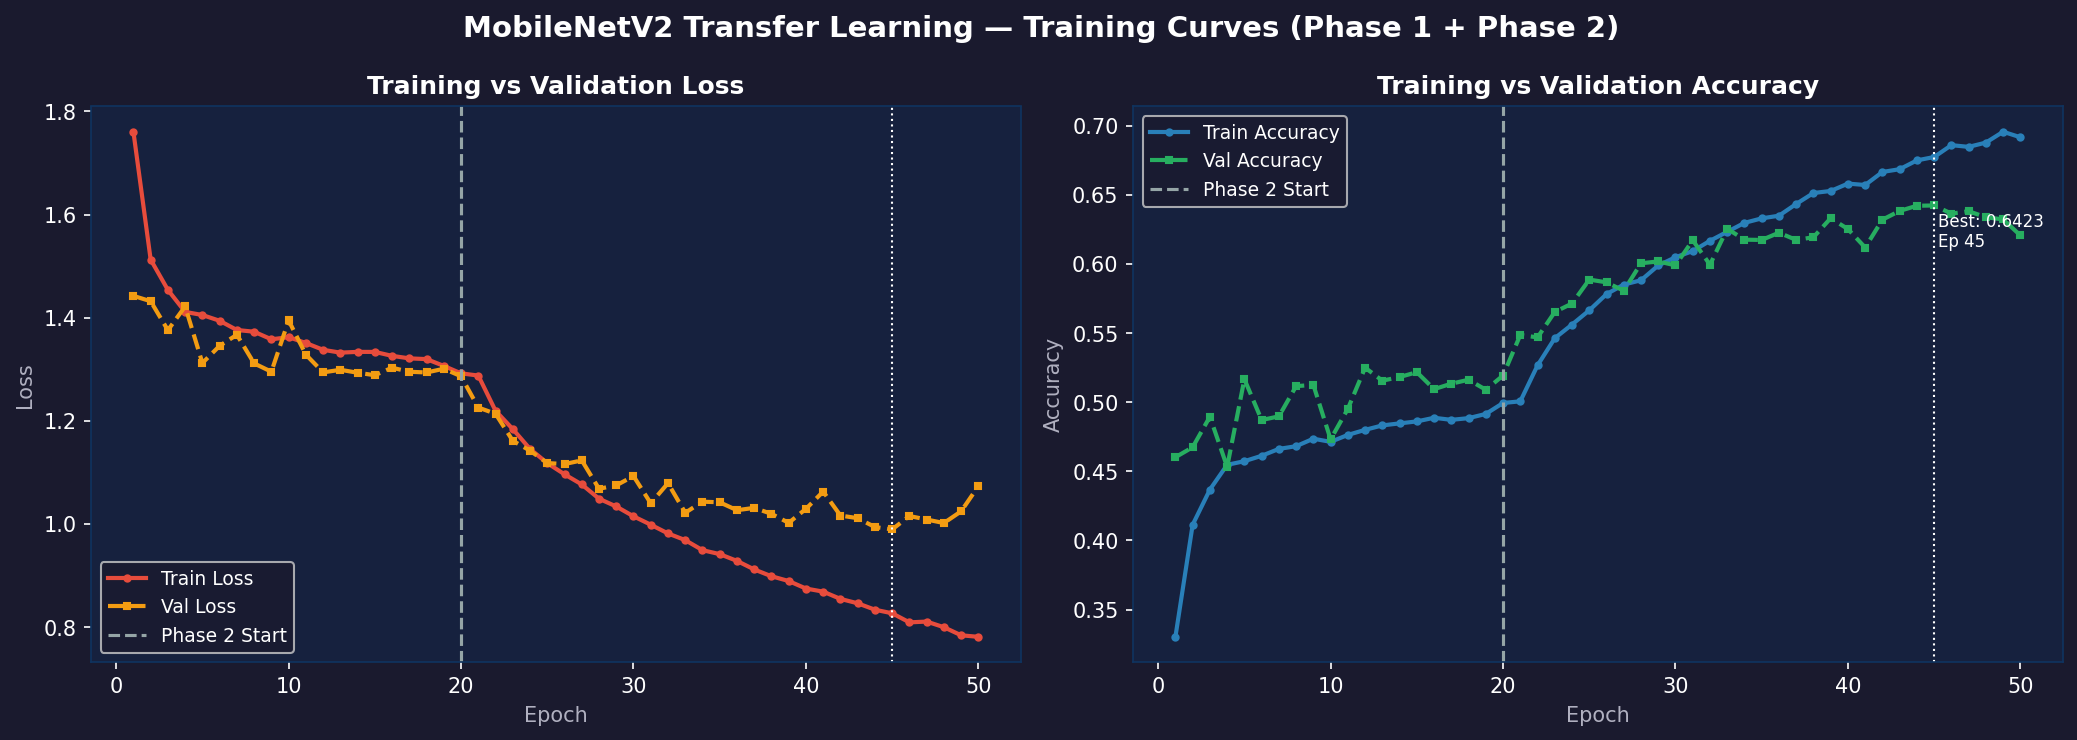
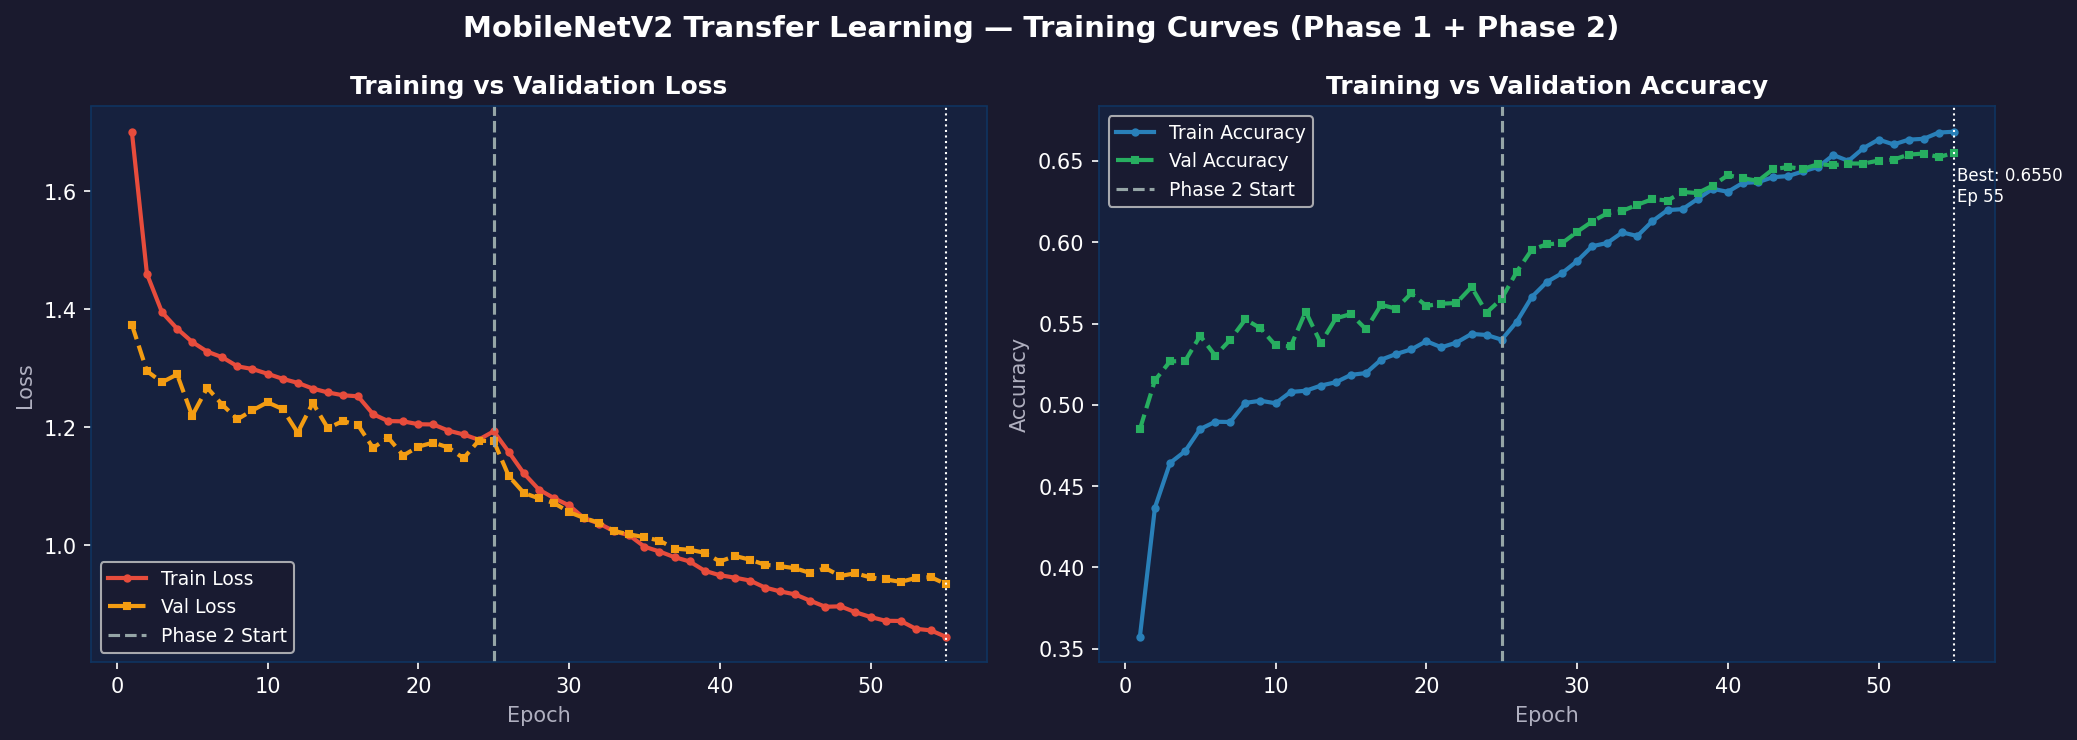
chore: update training results and logs after model re-evaluation

diff --git a/app.py b/app.py
@@ -183,12 +183,11 @@ with st.sidebar:
     st.markdown("- **7** emotion classes")
     st.markdown("- **48×48** grayscale")
     st.divider()
-    st.markdown("**🏗️ Preprocessing Pipeline**")
+    st.markdown("**🏗️ Preprocessing Pipeline (CNN)**")
     st.markdown("1. Convert to grayscale")
     st.markdown("2. Resize to 48×48")
-    st.markdown("3. CLAHE contrast enhancement")
-    st.markdown("4. Gaussian blur (denoise)")
-    st.markdown("5. Normalize to [0, 1]")
+    st.markdown("3. Normalize to [0, 1]")
+    st.caption("CLAHE shown for comparison only — not part of training pipeline.")
 
 
 # ── Main content ──────────────────────────────────────────────────────────────
@@ -229,7 +228,7 @@ if uploaded_file is not None:
 
     with col_img:
         st.markdown("#### 📷 Uploaded Image")
-        st.image(img_rgb, use_column_width=True, caption="Original image")
+        st.image(img_rgb, use_container_width=True, caption="Original image")
 
     # ── Run inference ─────────────────────────────────────────────────────────
     is_tl = "Transfer" in selected_model_name or "EfficientNet" in selected_model_name
@@ -284,9 +283,9 @@ if uploaded_file is not None:
         st.caption("⚠️ The model receives the **raw 48×48 grayscale** image (left). CLAHE is shown for reference only.")
         c1, c2 = st.columns(2)
         with c1:
-            st.image(raw_img_show, caption="✅ Model input: resize 48×48 + normalize (no CLAHE)", use_column_width=True, clamp=True)
+            st.image(raw_img_show, caption="✅ Model input: resize 48×48 + normalize (no CLAHE)", use_container_width=True, clamp=True)
         with c2:
-            st.image(enh_img_show, caption="🔍 CLAHE effect (visual reference only, not fed to model)", use_column_width=True, clamp=True)
+            st.image(enh_img_show, caption="🔍 CLAHE effect (visual reference only, not fed to model)", use_container_width=True, clamp=True)
 
 else:
     # Empty state placeholder